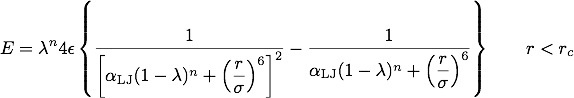
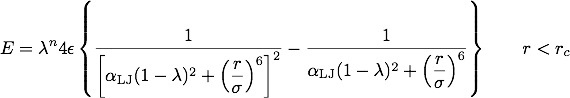
Pair style adhere to Beutler's version.

diff --git a/doc/pair_lj_soft.html b/doc/pair_lj_soft.html
@@ -102,7 +102,8 @@ created or anihilated <A HREF = "#Beutler">(Beutler)</A>,
 </P>
 <CENTER><IMG SRC = "Eqs/pair_lj_soft.jpg">
 </CENTER>
-<P>Coulomb interactions are damped at short distance,
+<P>Coulomb interactions are also damped with a soft core at short
+distance,
 </P>
 <CENTER><IMG SRC = "Eqs/pair_coul_soft.jpg">
 </CENTER>

diff --git a/src/USER-FEP/pair_lj_cut_coul_long_soft.cpp b/src/USER-FEP/pair_lj_cut_coul_long_soft.cpp
@@ -716,9 +716,8 @@ double PairLJCutCoulLongSoft::init_one(int i, int j)
 
   lj1[i][j] = pow(lambda[i][j], nlambda);
   lj2[i][j] = pow(sigma[i][j], 6.0);
-  double aux = pow(1.0 - lambda[i][j], nlambda);
-  lj3[i][j] = alphalj * aux;
-  lj4[i][j] = alphac  * aux;
+  lj3[i][j] = alphalj * (1.0 - lambda[i][j])*(1.0 - lambda[i][j]);
+  lj4[i][j] = alphac  * (1.0 - lambda[i][j])*(1.0 - lambda[i][j]);
 
   if (offset_flag) {
     double denlj = lj3[i][j] + pow(sigma[i][j] / cut_lj[i][j], 6.0);

diff --git a/src/USER-FEP/pair_lj_cut_coul_cut_soft.cpp b/src/USER-FEP/pair_lj_cut_coul_cut_soft.cpp
@@ -293,9 +293,8 @@ double PairLJCutCoulCutSoft::init_one(int i, int j)
 
   lj1[i][j] = pow(lambda[i][j], nlambda);
   lj2[i][j] = pow(sigma[i][j], 6.0);
-  double aux = pow(1.0 - lambda[i][j], nlambda);
-  lj3[i][j] = alphalj * aux;
-  lj4[i][j] = alphac  * aux;
+  lj3[i][j] = alphalj * (1.0 - lambda[i][j])*(1.0 - lambda[i][j]);
+  lj4[i][j] = alphac  * (1.0 - lambda[i][j])*(1.0 - lambda[i][j]);
 
   if (offset_flag) {
     double denlj = lj3[i][j] + pow(sigma[i][j] / cut_lj[i][j], 6.0);

diff --git a/doc/Eqs/pair_lj_soft.tex b/doc/Eqs/pair_lj_soft.tex
@@ -5,9 +5,9 @@
 \[
 E = \lambda^n 4 \epsilon
 \left\{
-  \frac{1}{ \left[ \alpha_{\mathrm{LJ}} (1-\lambda)^n +
+  \frac{1}{ \left[ \alpha_{\mathrm{LJ}} (1-\lambda)^2 +
     \left( \displaystyle\frac{r}{\sigma} \right)^6 \right]^2 } -
-  \frac{1}{ \alpha_{\mathrm{LJ}} (1-\lambda)^n +
+  \frac{1}{ \alpha_{\mathrm{LJ}} (1-\lambda)^2 +
     \left( \displaystyle\frac{r}{\sigma} \right)^6 }
 \right\} \qquad r < r_c
  \]

diff --git a/src/USER-FEP/pair_lj_cut_soft.cpp b/src/USER-FEP/pair_lj_cut_soft.cpp
@@ -578,7 +578,7 @@ double PairLJCutSoft::init_one(int i, int j)
 
   lj1[i][j] = pow(lambda[i][j], nlambda);
   lj2[i][j] = pow(sigma[i][j], 6.0);
-  lj3[i][j] = alphalj * pow(1.0 - lambda[i][j], nlambda);
+  lj3[i][j] = alphalj * (1.0 - lambda[i][j])*(1.0 - lambda[i][j]);
 
   if (offset_flag) {
     double denlj = lj3[i][j] + pow(sigma[i][j] / cut[i][j], 6.0);

diff --git a/src/USER-FEP/pair_coul_long_soft.cpp b/src/USER-FEP/pair_coul_long_soft.cpp
@@ -257,7 +257,7 @@ double PairCoulLongSoft::init_one(int i, int j)
   }
 
   lj1[i][j] = pow(lambda[i][j], nlambda);
-  lj4[i][j] = alphac * pow(1.0 - lambda[i][j], nlambda);
+  lj4[i][j] = alphac * (1.0 - lambda[i][j])*(1.0 - lambda[i][j]);
 
   scale[j][i] = scale[i][j];
   lambda[j][i] = lambda[i][j];

diff --git a/src/USER-FEP/pair_coul_cut_soft.cpp b/src/USER-FEP/pair_coul_cut_soft.cpp
@@ -232,7 +232,7 @@ double PairCoulCutSoft::init_one(int i, int j)
   }
 
   lj1[i][j] = pow(lambda[i][j], nlambda);
-  lj4[i][j] = alphac * pow(1.0 - lambda[i][j], nlambda);
+  lj4[i][j] = alphac * (1.0 - lambda[i][j])*(1.0 - lambda[i][j]);
 
   cut[j][i] = cut[i][j];
   lambda[j][i] = lambda[i][j];

diff --git a/doc/Eqs/pair_coul_soft.tex b/doc/Eqs/pair_coul_soft.tex
@@ -4,7 +4,7 @@
 
 \[
 E = \lambda^n \frac{ C q_i q_j}{\epsilon
-\left[ \alpha_{\mathrm{C}} (1-\lambda)^n + r^2 \right]^{1/2}} \qquad r < r_c
+\left[ \alpha_{\mathrm{C}} (1-\lambda)^2 + r^2 \right]^{1/2}} \qquad r < r_c
 \]
 
 \end{document}

diff --git a/README.md b/README.md
@@ -7,16 +7,20 @@ Free energy perturbation for LAMMPS, with soft-core pair potentials.
 Installation
 ------------
 
-1. Copy the `src/USER-FEP` directory into `lammps/src/USER-FEP`
+The `compute fep` is installed as a user-package.
+
+1. Copy the `src/USER-FEP` directory to `lammps/src/USER-FEP`.
+
+2. You may want to keep a backup of the original `fix_adapt.h` and
+   `fix_adapt.cpp`, although the version included here is more flexible.
 
 2. Add `user-fep` to the `PACKUSER` variable in `lammps/src/Makefile`
 
 3. Compile (the `kspace` package is required)
 
-
     make yes-user-fep
 
-    make machine
+    make 'machine'
 
 
 Documentation
@@ -26,4 +30,3 @@ The `compute fep`, a modified `fix adapt` and the soft-core `pair
 styles` have their documentation pages in the the `doc` directory.
 
 Some examples are provided.
-
